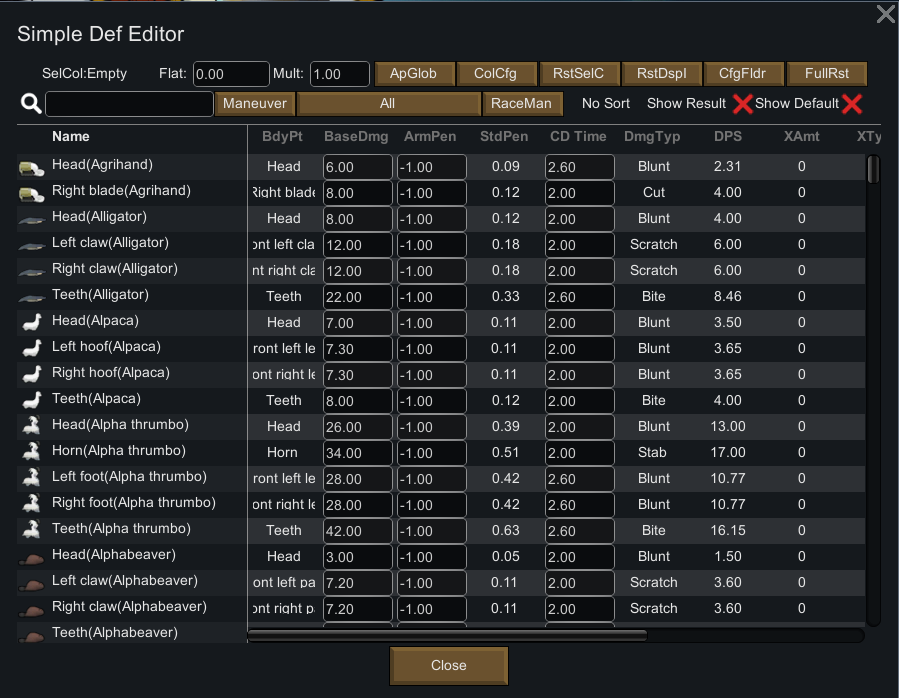
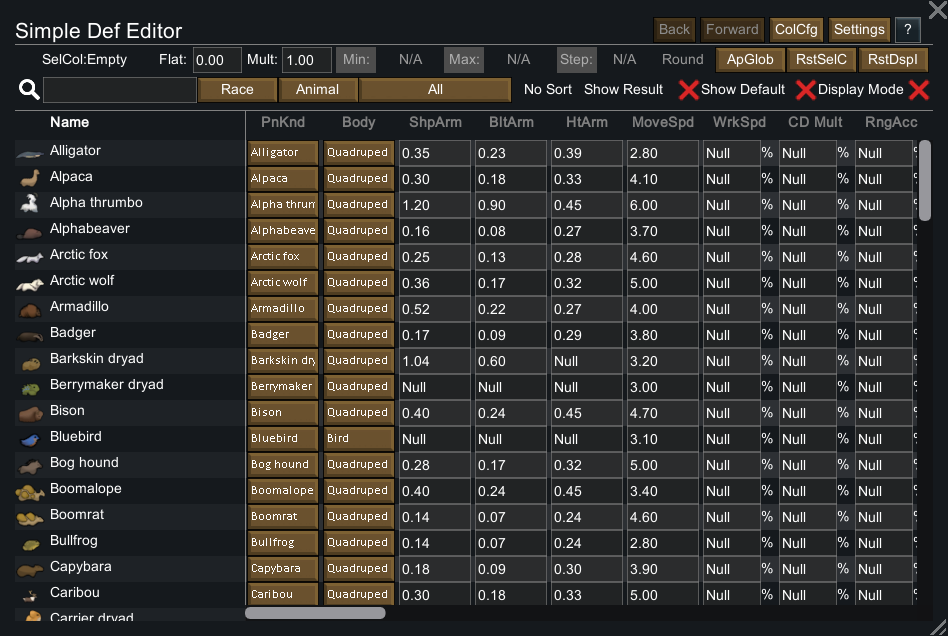
refactor(balance tweak): 调整搜索框、模组筛选框及两个复选框的宽度比例，优化底部行的空间分配，使界面布局更均衡合理

diff --git a/Source/BalanceTweak/GUI/BalanceTweakGUI.cs b/Source/BalanceTweak/GUI/BalanceTweakGUI.cs
@@ -626,8 +626,8 @@ public partial class BalanceTweakSettings : ModSettings
         // 搜索框
         Rect searchInputTexture = new Rect(curX, bottomrow.y, bottomrow.height, bottomrow.height).ContractedBy(Contracted);
         curX += searchInputTexture.width;
-        // 搜索框是整行唯一的弹性元素，剩余宽度都由它吸收
-        float searchWidth = Mathf.Max(80f, bottomrow.width * 0.21f);
+
+        float searchWidth = Mathf.Max(80f, bottomrow.width * 0.17f);
         Rect searchInputRect = new Rect(curX, bottomrow.y, searchWidth + Contracted, bottomrow.height).ContractedBy(Contracted);
 
         const string SearchControlName = "SearchBox";
@@ -673,7 +673,7 @@ public partial class BalanceTweakSettings : ModSettings
         curX += propFilterRect.width;
 
         // Mod 筛选
-        Rect modFilterRect = new Rect(curX, bottomrow.y, bottomrow.width * 0.23f + Contracted, bottomrow.height).ContractedBy(Contracted);
+        Rect modFilterRect = new Rect(curX, bottomrow.y, bottomrow.width * 0.17f + Contracted, bottomrow.height).ContractedBy(Contracted);
         if (Widgets.ButtonText(modFilterRect, filterModPack))
         {
             OpenFilterMenu(availableModPacks, selection =>
@@ -705,14 +705,14 @@ public partial class BalanceTweakSettings : ModSettings
         }
         curX += sortModeRect.width;
         // 显示已修改
-        Rect showChangedRect = new Rect(curX, bottomrow.y, bottomrow.width * 0.1f + Contracted, bottomrow.height).ContractedBy(Contracted);
+        Rect showChangedRect = new Rect(curX, bottomrow.y, bottomrow.width * 0.13f + Contracted, bottomrow.height).ContractedBy(Contracted);
         TooltipHandler.TipRegion(showChangedRect, "MST.showChangedTooltip".Translate().RawText);
 
         Widgets.CheckboxLabeled(showChangedRect, "MST.showChanged".Translate().RawText, ref showChanged);
         curX += showChangedRect.width;
 
         // 显示抽象值
-        Rect showAbstractRect = new Rect(curX, bottomrow.y, bottomrow.width * 0.1f + Contracted, bottomrow.height).ContractedBy(Contracted);
+        Rect showAbstractRect = new Rect(curX, bottomrow.y, bottomrow.width * 0.13f + Contracted, bottomrow.height).ContractedBy(Contracted);
         TooltipHandler.TipRegion(showAbstractRect, "MST.showAbstractTooltip".Translate().RawText);
         Widgets.CheckboxLabeled(showAbstractRect, "MST.showAbstract".Translate().RawText, ref showAbstract);
         curX += showAbstractRect.width;
